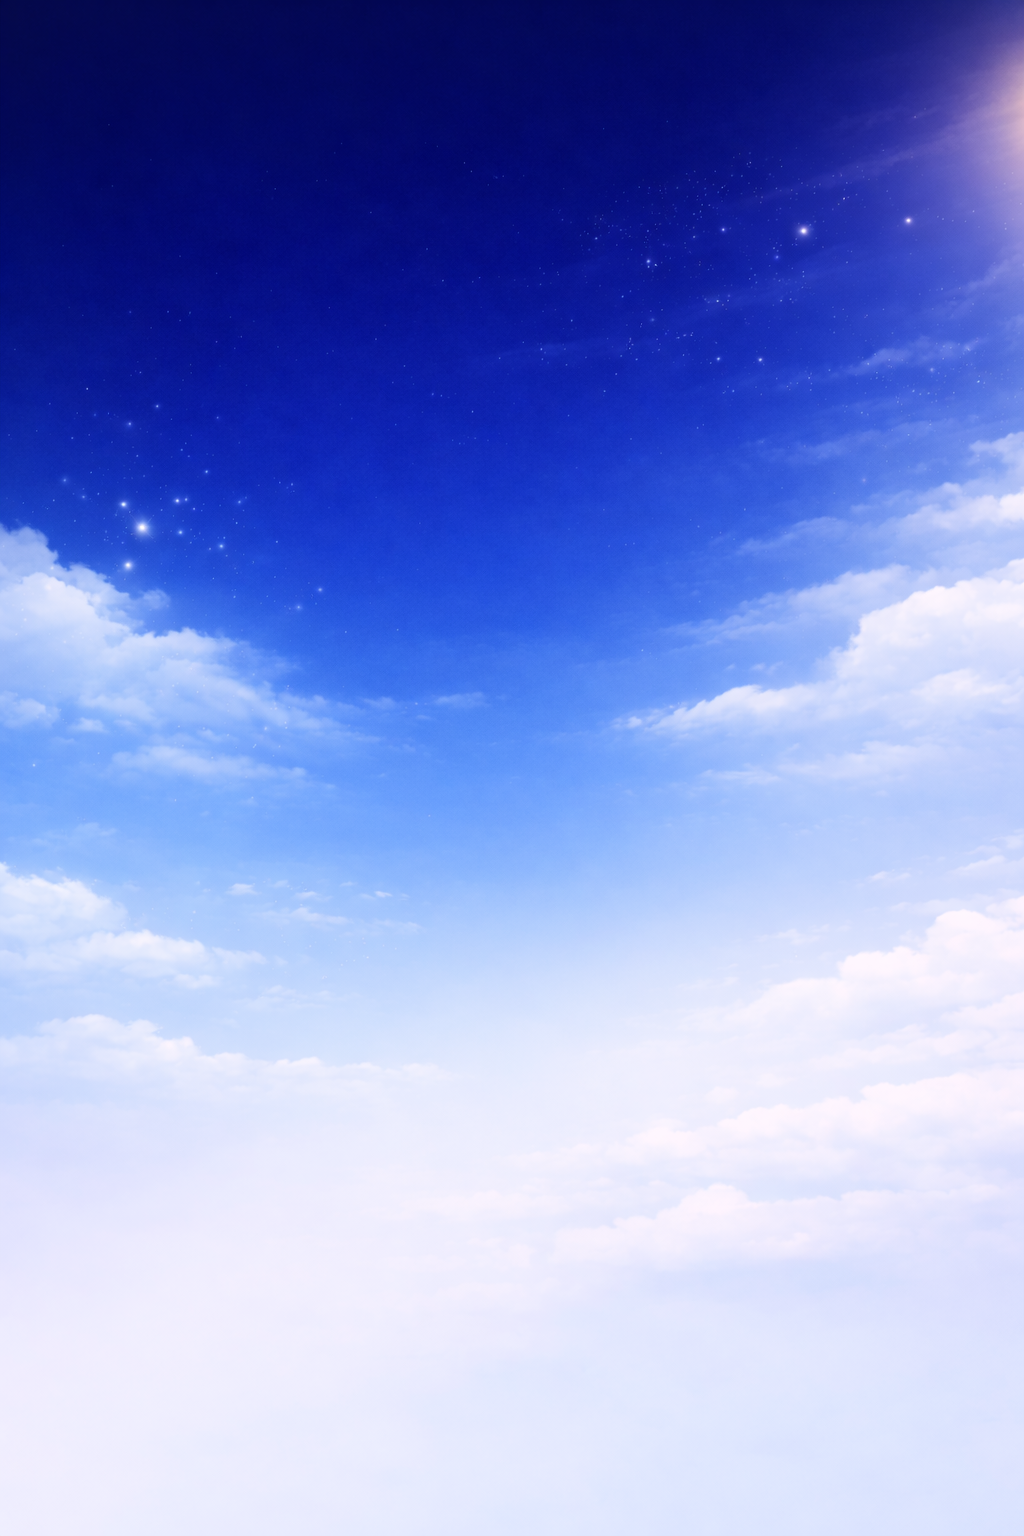
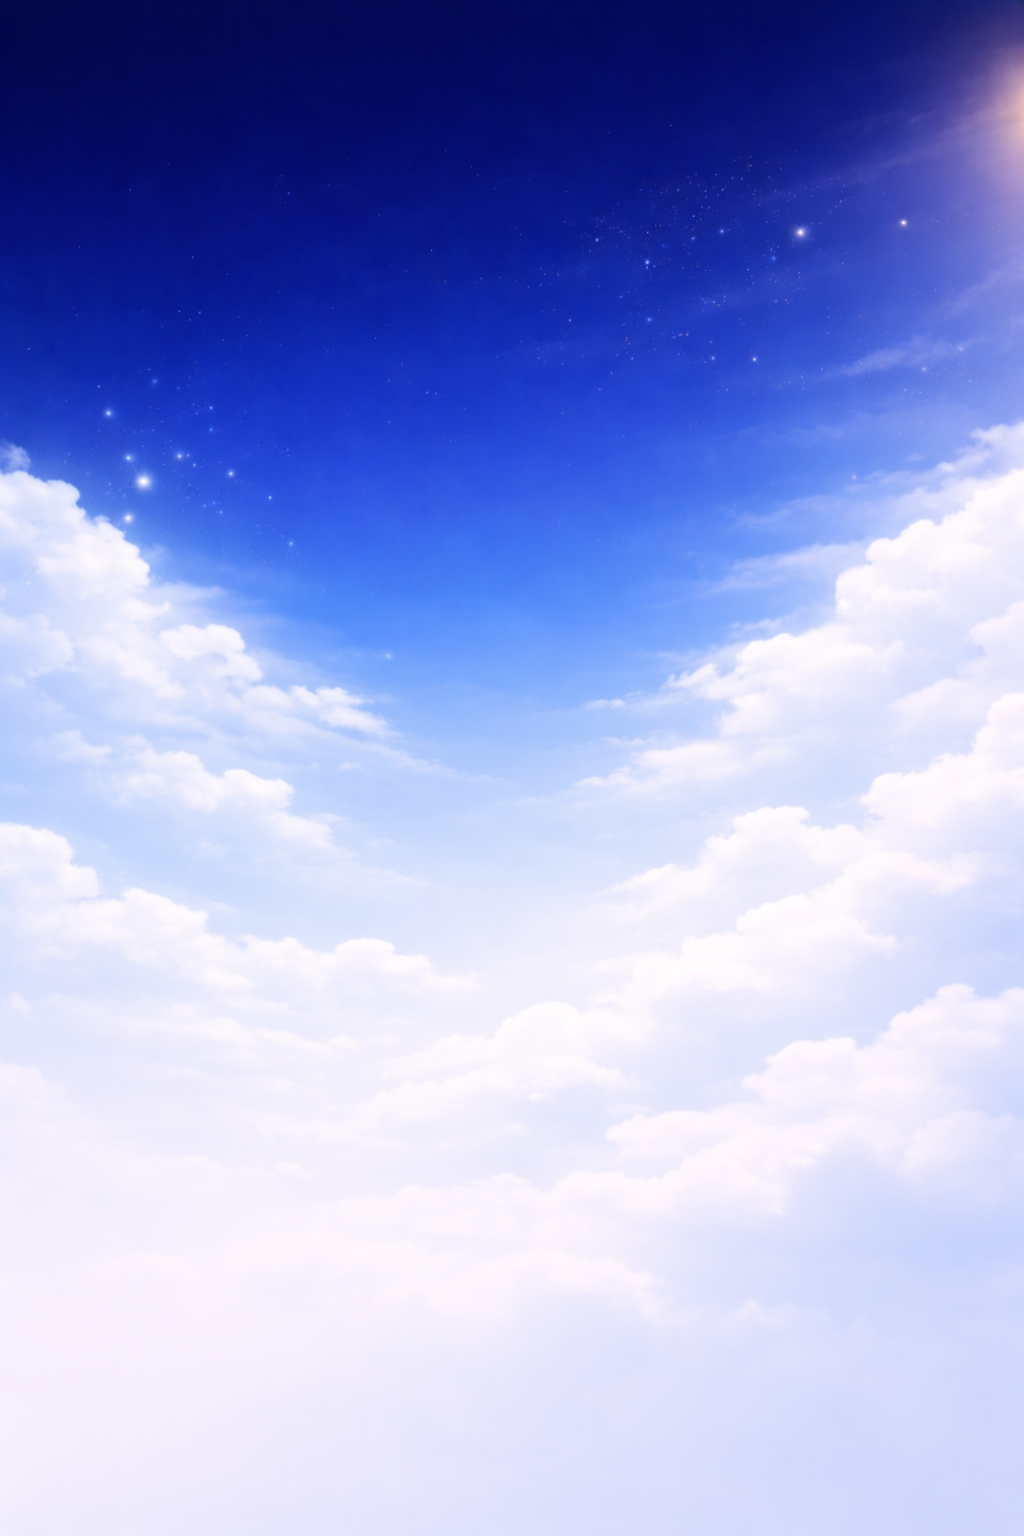
fotos

diff --git a/src/index.css b/src/index.css
@@ -548,6 +548,7 @@ body {
 /* Saldo Card */
 .card-saldo {
   background:
+    radial-gradient(circle at 50% 50%, rgba(255, 255, 255, 0.85), rgba(255, 255, 255, 0.0) 60%),
     radial-gradient(circle at 20% 30%, rgba(255, 255, 255, 0.75), transparent 50%),
     radial-gradient(circle at 80% 20%, rgba(255, 255, 255, 0.55), transparent 50%),
     linear-gradient(135deg,
@@ -559,6 +560,7 @@ body {
 /* Despesas Card */
 .card-despesas {
   background:
+    radial-gradient(circle at 50% 50%, rgba(255, 255, 255, 0.85), rgba(255, 255, 255, 0.0) 60%),
     radial-gradient(circle at 20% 30%, rgba(255, 255, 255, 0.75), transparent 50%),
     radial-gradient(circle at 80% 20%, rgba(255, 255, 255, 0.55), transparent 50%),
     linear-gradient(135deg,
@@ -570,6 +572,7 @@ body {
 /* Receitas Card */
 .card-receitas {
   background:
+    radial-gradient(circle at 50% 50%, rgba(255, 255, 255, 0.85), rgba(255, 255, 255, 0.0) 60%),
     radial-gradient(circle at 20% 30%, rgba(255, 255, 255, 0.75), transparent 50%),
     radial-gradient(circle at 80% 20%, rgba(255, 255, 255, 0.55), transparent 50%),
     linear-gradient(135deg,
@@ -581,6 +584,7 @@ body {
 /* Cartoes Card */
 .card-cartoes {
   background:
+    radial-gradient(circle at 50% 50%, rgba(255, 255, 255, 0.85), rgba(255, 255, 255, 0.0) 60%),
     radial-gradient(circle at 20% 30%, rgba(255, 255, 255, 0.75), transparent 50%),
     radial-gradient(circle at 80% 20%, rgba(255, 255, 255, 0.55), transparent 50%),
     linear-gradient(135deg,
